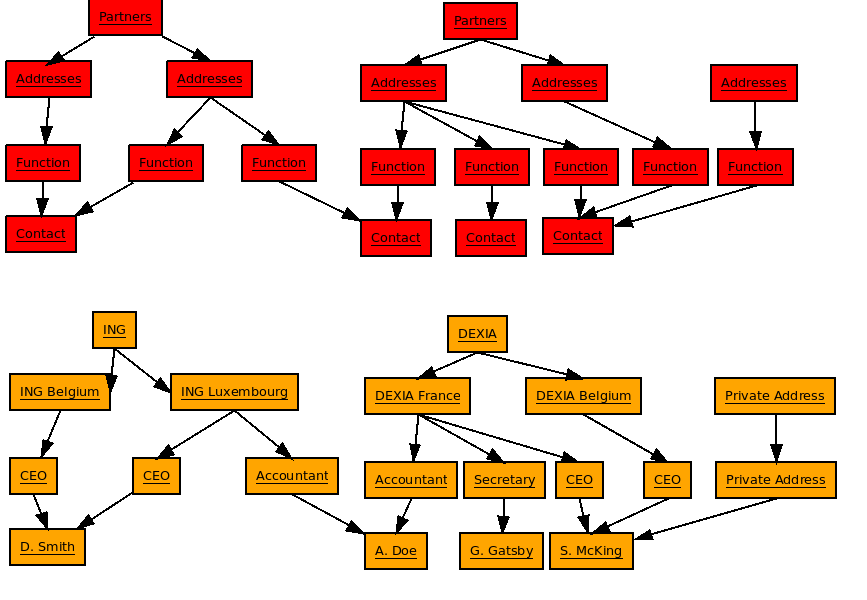
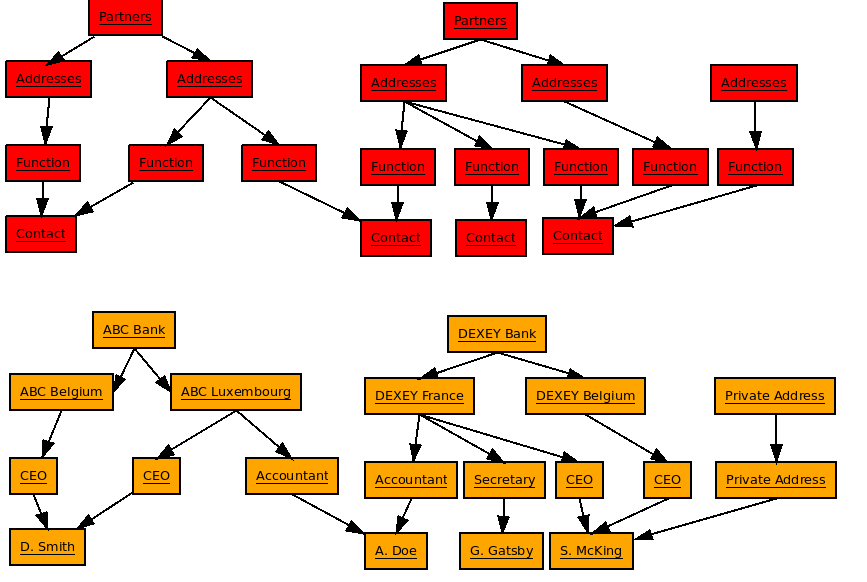
[IMP] changed crm

diff --git a/2/2_4_Leads/2_4_Contacts.rst b/2/2_4_Leads/2_4_Contacts.rst
@@ -12,20 +12,10 @@ is a partner with multiple contacts.
 In some cases, the standard way of linking contacts to partners may not be flexible enough for you. Of course, OpenERP provides
 an alternative, the :mod:`base_contact` module.
 
-The two figures :ref:`fig-crmconw` and :ref:`fig-crmcono` show
+The two figures :ref:`fig-crmcono` and :ref:`fig-crmconw` show
 the structure of partners and contacts in the form of UML classes both
-with and without the :mod:`base_contact` module.
-For the non-programmer this diagram may be a bit of a brutal way
-of showing it, but it is the clearest way to illustrate the
-complexities that may be accomplished.
-
-.. _fig-crmconw:
-
-.. figure:: images/crm_contact_with_new.png
-   :scale: 50
-   :align: center
-
-   *UML class diagram with base_contact module installed*
+without and with the :mod:`base_contact` module.
+This is a clear way to illustrate the complexities that may be accomplished.
 
 .. _fig-crmcono:
 
@@ -35,31 +25,31 @@ complexities that may be accomplished.
 
    *UML class diagram with base_contact module not installed*
 
-A concrete example may better illustrate this concept of multiple relationships between contacts and
-partners (companies). The figure :ref:`fig-crmcont` shows two companies having several addresses (places of
-business) and several contacts attached to these addresses.
+.. _fig-crmconw:
 
-.. _fig-crmcont:
-
-.. figure:: images/crm_contact_exemple.png
+.. figure:: images/crm_contact_with_new.png
    :scale: 50
    :align: center
 
-   *Example of a structure with management of partners and contacts*
+   *UML class diagram with base_contact module installed*
 
-In this example you'll find the following elements:
+The concrete example may even better illustrate the concept of multiple relationships between contacts and
+partners (companies). The figure :ref:`fig-crmconw` shows two companies having several addresses (places of
+business) and several contacts attached to these addresses.
+
+In this example you will find the following elements:
 
 * The ABC bank has two places of business, represented by the addresses of ABC Belgium and ABC
   Luxembourg,
 
 * The addresses of Dexey France and Dexey Belgium belong to the Dexey company,
 
-* At the office of ABC Luxembourg, you have the contacts of the director (D. Fogerty) and the
-  accountant (A. Jacket),
+* At the office of ABC Luxembourg, you have the contacts of the director (D. Smith) and the
+  accountant (A. Doe),
 
-* Mr Jacket holds the post of accountant for ABC Luxembourg and Dexey France,
+* Mr Doe holds the post of accountant for ABC Luxembourg and Dexey France,
 
-* Mr J Smith is director of Dexey France and Dexey Belgium and we also have his private address
+* Mr D. Smith is director of Dexey France and Dexey Belgium and we also have his private address
   which is not attached to a partner.
 
 Depending on your needs, OpenERP provides three menus to access the same information:
@@ -70,7 +60,7 @@ Depending on your needs, OpenERP provides three menus to access the same informa
 
 If you correct a contact name on the contact form, this will be modified on all the posts occupied in the different companies.
 
-The screen above represents a partner form. You can see several possible address there and a list of
+The screen above represents a partner form. You can see several possible addresses there and a list of
 contacts above each address. For each contact you see a name, a function, a phone number and an
 email.
 
@@ -110,9 +100,9 @@ OpenERP's modularity enables you to install only the CRM module if your requirem
 
 When creating the new database, OpenERP suggests that you configure it using a series of questions:
 
-* Simplified or Extended mode: select simplified and click :guilabel:`Ok`,
+* Simplified or Extended mode: select simplified and click :guilabel:`OK`,
 
-* Select the CRM functionality to install.
+* Select the Customer Relationship Management functionality to install.
 
 .. figure:: images/ crm_db_select.png
    :scale: 50
@@ -120,43 +110,40 @@ When creating the new database, OpenERP suggests that you configure it using a s
 
    *Selecting the CRM functionality to install*
 
-OpenERP proposes a selection from pre-configured functions for CRM:
+OpenERP proposes a selection from preconfigured functions for CRM:
 
-* managing a prospects database,
+* managing a prospect database,
 
 * managing and tracking opportunities,
 
 * managing meetings and the company calendar,
 
-* managing pre-sales,
+* managing presales,
 
-* managing phone calls and/or a call center,
+* managing phone calls,
 
 * managing after-sales service,
-
-* managing employment offers,
 
 * managing technical service,
 
 * tracking bugs and new functional requests.
 
-You see that OpenERP's CRM module is not limited just to Customer relationships but is designed to
+You see that OpenERP's CRM module is not limited just to Customer Relationships but is designed to
 generate all types of relations with a partner: such as suppliers, employees, customers, prospects.
 This book will describe just customer relationships. The other CRM functions are similar to use, so
 you should not have huge problems with understanding those functions.
 
-The following cases will be looked at for this chapter
+The following cases will be looked at in this chapter:
 
-* Prospect management,
+* Prospect Management,
 
-* Opportunity management,
+* Opportunity Management,
 
-* Management of the company calendar,
+* Management of the Company Calendar,
 
-* Management of phone calls.
+* Management of Phone Calls.
 
-The figure :ref:`fig-crmconwiz` shows the CRM module configuration screen after selecting some functions to
-install.
+The figure :ref:`fig-crmconwiz` shows the CRM module configuration screen that appears when you selected the CRM to be installed.
 
 .. _fig-crmconwiz:
 
@@ -166,11 +153,8 @@ install.
 
    *Selecting parameters for CRM modules for the reader of this chapter*
 
-Organizing Prospects
-====================
-
 If you have installed the management of prospects and opportunities, OpenERP implements the
-following workflow for the qualification of prospects and future opportunities.
+following workflow for the *qualification of prospects* and future opportunities.
 
 .. figure:: images/crm_flux.png
    :scale: 50
